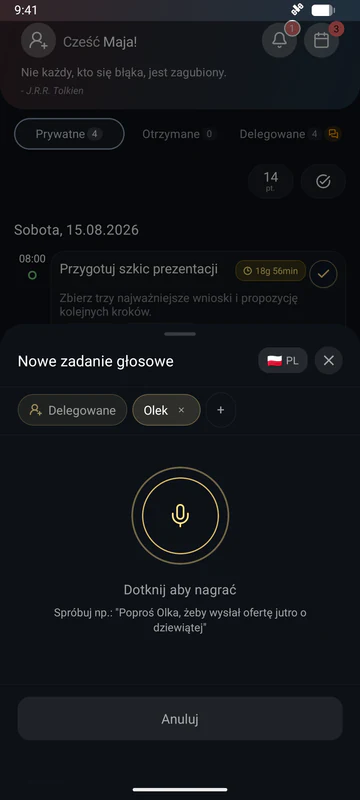
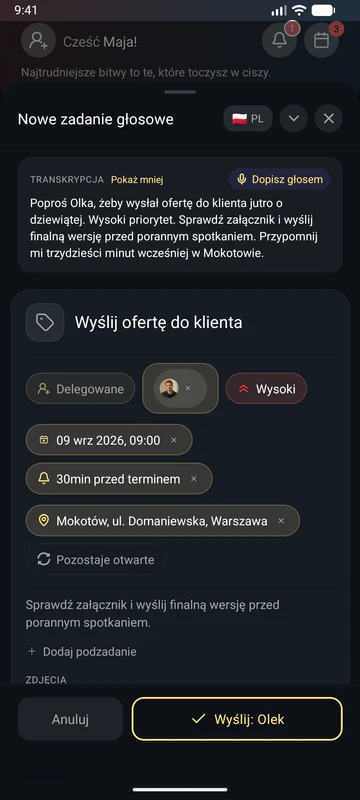
feat(home): ekran 2 kroków to wypełnione zadanie głosowe z Google Play
Na prośbę właściciela 27.09: drugi ekran coverflow (02-assignee, PL i EN)
był prawie taki sam jak pierwszy. Teraz to ten sam obraz, który jest na
żywo w Google Play: arkusz zadania głosowego z transkrypcją, terminem,
przypomnieniem, miejscem, priorytetem i "Wyślij: Olek" / "Send: Alex".

Bajty 1:1 z piotrdomagala/S- bd5d70d56223ffe558fb602e38a69ebaa0b432aa
(gałąź codex/delegation-gallery-adoption-20260908 na origin). Walidator
dopuszcza per-asset sourceCommit tylko z sourceNote. Nowy krok importu
npm run verify:media-sources -- <worktree S-> sprawdza, że każdy commit
źródłowy jest na origin i że plik ma zapisany hash. Pochodne WebP są
wygenerowane pinned pipeline; budżety per plik i per locale w normie.

Sprawdzone: validate:media, verify:media-sources (16/16), lint,
typecheck, npm test 45/45, build; mutant reguły zabity.

diff --git a/docs/PRODUCT-MEDIA-INTEGRATION.md b/docs/PRODUCT-MEDIA-INTEGRATION.md
@@ -50,6 +50,18 @@ the owner found the pulse unattractive; the file stays) is an exact copy of
 `store-listing/assets/brand/golden-relay-transparent-2048x256.png`, SHA-256
[1 lines of base64/hex data omitted]
 
+One capture may cite its own S- commit instead of the preview source commit:
+the asset then carries `sourceCommit` (lowercase 40-character SHA) and
+`sourceNote` (why), and the validator requires both together. Since 27.09.2026
+the `assignee` pair (`02-assignee` PL and EN, the filled voice task review that
+is live on Google Play) comes from `bd5d70d56223ffe558fb602e38a69ebaa0b432aa` on
+`codex/delegation-gallery-adoption-20260908`, at the owner's request; once that
+gallery is merged to main the pair moves to the main commit. The site's CI
+cannot read the private app repository, so every import runs
+`npm run verify:media-sources -- <path to an S- worktree>`: it fetches origin and
+checks that each source commit is on origin and that the file at
+`sourceArtifactEntry` in it has exactly `sourceSha256`.
+
 This checked-in set is an owner-attested website preview, not the final store
 artifact binding. `artifactBinding` therefore remains `null`, and
 `finalArtifactContract.status` remains `awaiting-approved-no-publish-package`.
